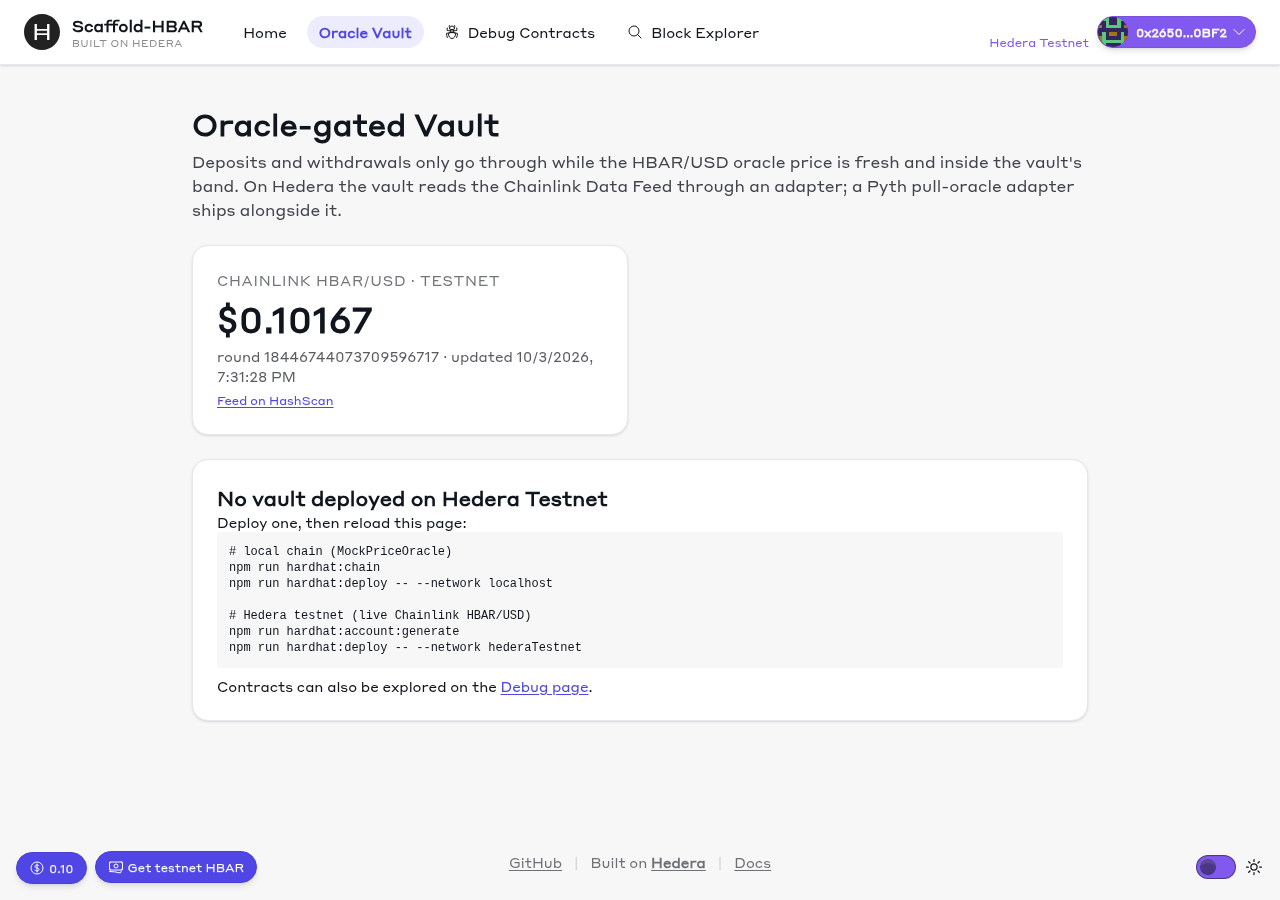
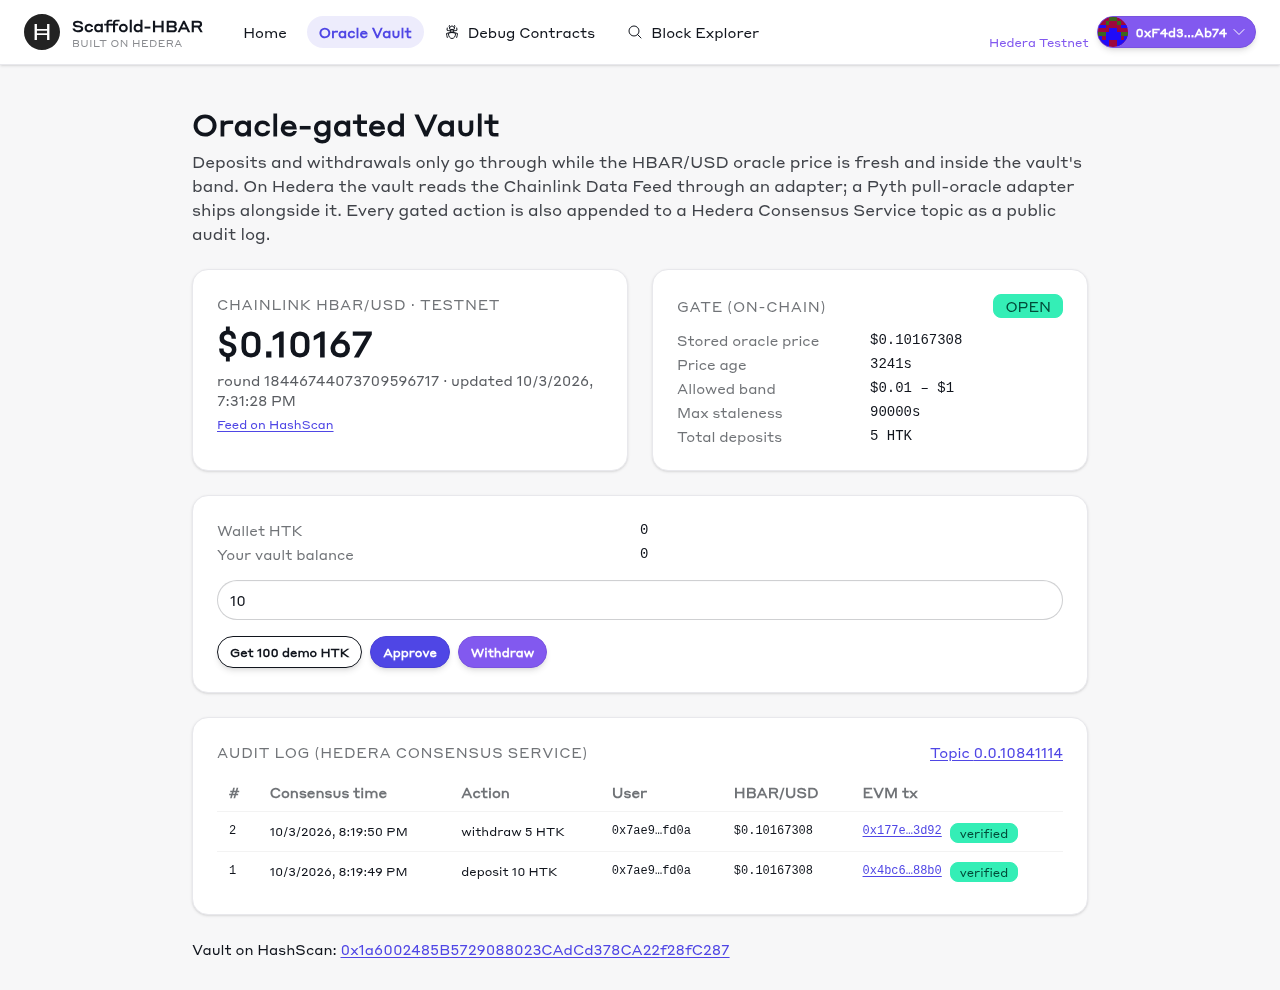
feat: Sourcify v2 verify script (contracts verified), HCS topic registry in nextjs/contracts, testnet /vault screenshot

diff --git a/packages/hardhat/scripts/verifySourcify.ts b/packages/hardhat/scripts/verifySourcify.ts
@@ -1,0 +1,69 @@
+import { artifacts, deployments, ethers } from "hardhat";
+
+/**
+ * Verifies every deployed contract of this network on Sourcify through its v2 API (HashScan reads
+ * verification status from sourcify.dev). `hardhat verify` in @nomicfoundation/hardhat-verify still
+ * calls the removed v1 endpoints, so this script talks to v2 directly.
+ *
+ *   npm run hardhat:verify:sourcify -- --network hederaTestnet
+ */
+const SOURCIFY = process.env.SOURCIFY_URL || "https://sourcify.dev/server";
+const sleep = (ms: number) => new Promise(r => setTimeout(r, ms));
+
+async function verifyOne(chainId: number, name: string) {
+  const deployment = await deployments.get(name);
+  const existing = await fetch(`${SOURCIFY}/v2/contract/${chainId}/${deployment.address}`).then(r => r.json());
+  if (existing.match) {
+    console.log(`✅ ${name} already verified (${existing.match})`);
+    return;
+  }
+
+  const artifact = await artifacts.readArtifact(name);
+  const fqn = `${artifact.sourceName}:${artifact.contractName}`;
+  const buildInfo = await artifacts.getBuildInfo(fqn);
+  if (!buildInfo) throw new Error(`No build info for ${fqn}; run hardhat compile`);
+
+  const res = await fetch(`${SOURCIFY}/v2/verify/${chainId}/${deployment.address}`, {
+    method: "POST",
+    headers: { "Content-Type": "application/json", "User-Agent": "oracle-gated-vault-template" },
+    body: JSON.stringify({
+      stdJsonInput: buildInfo.input,
+      compilerVersion: buildInfo.solcLongVersion,
+      contractIdentifier: fqn,
+      creationTransactionHash: deployment.transactionHash,
+    }),
+  });
+  const body = await res.json();
+  if (!res.ok) throw new Error(`${name}: Sourcify ${res.status} ${JSON.stringify(body)}`);
+
+  for (let i = 0; i < 30; i++) {
+    await sleep(3000);
+    const job = await fetch(`${SOURCIFY}/v2/verify/${body.verificationId}`).then(r => r.json());
+    if (!job.isJobCompleted) continue;
+    if (job.error)
+      throw new Error(`${name}: ${job.error.customCode ?? ""} ${job.error.message ?? JSON.stringify(job.error)}`);
+    console.log(`✅ ${name} verified on Sourcify (${job.contract?.match ?? "match"})`);
+    return;
+  }
+  throw new Error(`${name}: verification job ${body.verificationId} did not finish`);
+}
+
+async function main() {
+  const chainId = Number((await ethers.provider.getNetwork()).chainId);
+  const names = Object.keys(await deployments.all());
+  let failed = 0;
+  for (const name of names) {
+    try {
+      await verifyOne(chainId, name);
+    } catch (e) {
+      failed++;
+      console.error(`❌ ${(e as Error).message}`);
+    }
+  }
+  if (failed) process.exitCode = 1;
+}
+
+main().catch(error => {
+  console.error(error);
+  process.exitCode = 1;
+});

diff --git a/packages/hardhat/utils/hcsClient.ts b/packages/hardhat/utils/hcsClient.ts
@@ -93,29 +93,21 @@ export async function fetchLoggedAuditEvents(chainId: number, topicId: string): 
   return out;
 }
 
-/** Topic ids per network live next to the hardhat-deploy artifacts and are mirrored into the Next.js app. */
+/**
+ * Topic ids per chain id live in packages/nextjs/contracts/hcsAuditTopics.json (committed, read by the
+ * /vault page). Not under deployments/: hardhat-deploy would treat the file as a contract deployment.
+ */
 export type AuditTopicRecord = { topicId: string; vault: string; createdAt: string };
 
-const deploymentsFile = (networkName: string) =>
-  path.join(__dirname, "..", "deployments", networkName, "HcsAuditTopic.json");
-const NEXT_FILE = path.join(__dirname, "..", "..", "nextjs", "contracts", "hcsAuditTopics.json");
+const TOPICS_FILE = path.join(__dirname, "..", "..", "nextjs", "contracts", "hcsAuditTopics.json");
 
-/** Topic for this network: the local deployments record first, then the committed Next.js registry. */
-export function readAuditTopic(networkName: string, chainId: number): AuditTopicRecord | null {
-  const file = deploymentsFile(networkName);
-  if (fs.existsSync(file)) return JSON.parse(fs.readFileSync(file, "utf8")) as AuditTopicRecord;
-  if (!fs.existsSync(NEXT_FILE)) return null;
-  return (JSON.parse(fs.readFileSync(NEXT_FILE, "utf8")) as Record<string, AuditTopicRecord>)[String(chainId)] ?? null;
-}
+const readTopics = (): Record<string, AuditTopicRecord> =>
+  fs.existsSync(TOPICS_FILE) ? JSON.parse(fs.readFileSync(TOPICS_FILE, "utf8")) : {};
 
-export function saveAuditTopic(networkName: string, chainId: number, record: AuditTopicRecord) {
-  const file = deploymentsFile(networkName);
-  fs.mkdirSync(path.dirname(file), { recursive: true });
-  fs.writeFileSync(file, JSON.stringify(record, null, 2) + "\n");
+export const readAuditTopic = (chainId: number): AuditTopicRecord | null => readTopics()[String(chainId)] ?? null;
 
-  const current: Record<string, AuditTopicRecord> = fs.existsSync(NEXT_FILE)
-    ? JSON.parse(fs.readFileSync(NEXT_FILE, "utf8"))
-    : {};
-  current[String(chainId)] = record;
-  fs.writeFileSync(NEXT_FILE, JSON.stringify(current, null, 2) + "\n");
+export function saveAuditTopic(chainId: number, record: AuditTopicRecord) {
+  const topics = readTopics();
+  topics[String(chainId)] = record;
+  fs.writeFileSync(TOPICS_FILE, JSON.stringify(topics, null, 2) + "\n");
 }

diff --git a/packages/hardhat/deploy/02_create_hcs_audit_topic.ts b/packages/hardhat/deploy/02_create_hcs_audit_topic.ts
@@ -10,8 +10,7 @@ import { createAuditTopic, hashscanTopicUrl, operatorClient, readAuditTopic, sav
  * - Hedera networks only (HCS has no local-chain equivalent; set HCS_AUDIT=false to skip).
  * - Submit key = the deployer key, no admin key: only the relayer can append, nobody can delete.
  * - One topic per vault deployment; reruns are no-ops while the vault address is unchanged.
- * - The topic id is saved to deployments/<network>/HcsAuditTopic.json and
- *   packages/nextjs/contracts/hcsAuditTopics.json (read by the /vault page).
+ * - The topic id is saved to packages/nextjs/contracts/hcsAuditTopics.json (read by the /vault page).
  *
  * Messages are appended by `npm run hardhat:e2e:testnet` and `npm run hardhat:hcs:relay`.
  */
@@ -23,7 +22,7 @@ const createHcsAuditTopic: DeployFunction = async function (hre: HardhatRuntimeE
   }
 
   const vault = (await hre.deployments.get("OracleGatedVault")).address.toLowerCase();
-  const existing = readAuditTopic(hre.network.name, chainId);
+  const existing = readAuditTopic(chainId);
   if (existing && existing.vault.toLowerCase() === vault) {
     console.log(`HCS audit topic: reusing ${existing.topicId} (${hashscanTopicUrl(chainId, existing.topicId)})`);
     return;
@@ -33,7 +32,7 @@ const createHcsAuditTopic: DeployFunction = async function (hre: HardhatRuntimeE
   const { client, key } = await operatorClient(chainId, deployer);
   try {
     const topicId = await createAuditTopic(client, key, `Oracle-gated Vault audit log ${vault}`);
-    saveAuditTopic(hre.network.name, chainId, { topicId, vault, createdAt: new Date().toISOString() });
+    saveAuditTopic(chainId, { topicId, vault, createdAt: new Date().toISOString() });
     console.log(`HCS audit topic created: ${topicId}`);
     console.log(`  ${hashscanTopicUrl(chainId, topicId)}`);
   } finally {

diff --git a/packages/hardhat/scripts/hcsAuditRelay.ts b/packages/hardhat/scripts/hcsAuditRelay.ts
@@ -1,4 +1,4 @@
-import { deployments, ethers, network } from "hardhat";
+import { deployments, ethers } from "hardhat";
 
 import { hashscanTopicUrl, readAuditTopic } from "../utils/hcsClient";
 import { relayToTopic } from "../utils/hcsRelay";
@@ -13,8 +13,8 @@ async function main() {
   const chainId = Number((await ethers.provider.getNetwork()).chainId);
   const [signer] = await ethers.getSigners();
   const vault = (await deployments.get("OracleGatedVault")).address;
-  const topic = readAuditTopic(network.name, chainId);
-  if (!topic) throw new Error(`No HCS audit topic for ${network.name}; run the deploy first.`);
+  const topic = readAuditTopic(chainId);
+  if (!topic) throw new Error(`No HCS audit topic for chain ${chainId}; run the deploy first.`);
 
   const relayed = await relayToTopic({ chainId, topicId: topic.topicId, operatorEvm: signer.address, vault });
   for (const { event, sequenceNumber } of relayed) {

diff --git a/packages/hardhat/scripts/e2eTestnet.ts b/packages/hardhat/scripts/e2eTestnet.ts
@@ -76,7 +76,7 @@ async function main() {
 
   console.log(`Vault balance of signer: ${ethers.formatEther(await vault.balances(signer.address))} HTK`);
 
-  const topic = readAuditTopic(network.name, chainId);
+  const topic = readAuditTopic(chainId);
   if (!topic || topic.vault.toLowerCase() !== vaultAddress.toLowerCase()) {
     console.log("HCS audit topic not found for this vault (deploy with HCS_AUDIT unset to create one); skipping.");
     return;

diff --git a/packages/nextjs/contracts/deployedContracts.ts b/packages/nextjs/contracts/deployedContracts.ts
@@ -111,9 +111,6 @@ const deployedContracts = {
       },
       deployedOnBlock: 41302251,
     },
-    HcsAuditTopic: {
-      inheritedFunctions: {},
-    },
     HederaToken: {
       address: "0xb199E4193E60Eb98C74cb2048Ec91C67F2B070e2",
       abi: [

diff --git a/README.md b/README.md
@@ -143,9 +143,9 @@ The vault only knows `IPriceOracle`, so swapping feeds is a new adapter plus `se
    npm run hardhat:e2e:testnet
    npm run hardhat:hcs:relay        # optional: backfill any vault event not yet on the topic
    ```
-5. **Verify source** on Sourcify (HashScan shows the verified badge):
+5. **Verify source** on Sourcify (HashScan shows the verified badge). No API key, no constructor args: the script reads the deployments and build info.
    ```bash
-   npm run hardhat:verify -- --network hederaTestnet <vault-address> <constructor args…>
+   npm run hardhat:verify:sourcify -- --network hederaTestnet
    ```
 
 Mainnet works the same with `--network hederaMainnet`; the mainnet Chainlink feed address is already in `config/oracle.ts`.
@@ -153,7 +153,7 @@ Mainnet works the same with `--network hederaMainnet`; the mainnet Chainlink fee
 ## Deployed on testnet
 
 <!-- TESTNET_PROOF:START -->
-Deployed 2026-10-03 11:20 UTC on Hedera testnet (chain 296). Oracle: Chainlink HBAR/USD `0x59bC155EB6c6C415fE43255aF66EcF0523c92B4a`.
+Deployed 2026-10-03 11:20 UTC on Hedera testnet (chain 296). Oracle: Chainlink HBAR/USD `0x59bC155EB6c6C415fE43255aF66EcF0523c92B4a`. All three contracts are **verified on Sourcify (exact match)**, so HashScan shows their source.
 
 | Contract | Address | Deploy |
 |---|---|---|
@@ -216,7 +216,7 @@ HCS audit topic [`0.0.10841114`](https://hashscan.io/testnet/topic/0.0.10841114)
 | `npm run hardhat:e2e:testnet` | Live faucet → approve → gated deposit → gated withdraw → HCS audit messages, prints HashScan links |
 | `npm run hardhat:hcs:relay` | Append every vault event missing from the HCS audit topic (idempotent) |
 | `npm run hardhat:account[:generate\|:import]` | Manage the encrypted deployer key |
-| `npm run hardhat:verify -- --network hederaTestnet <address> <args>` | Sourcify verification |
+| `npm run hardhat:verify:sourcify -- --network hederaTestnet` | Verify every deployed contract on Sourcify (v2 API) |
 | `npm run next:dev` / `next:build` / `next:serve` | Frontend |
 | `npm run lint` / `npm run format` / `npm run next:check-types` | Quality gates |
 
@@ -241,6 +241,7 @@ packages/
     deploy/02_create_hcs_audit_topic.ts     HCS topic (Hedera networks only)
     scripts/e2eTestnet.ts             live end-to-end run
     scripts/hcsAuditRelay.ts          idempotent HCS backfill
+    scripts/verifySourcify.ts         Sourcify v2 verification
     scripts/runHardhatWithPK.ts       decrypts the deployer key for deploy/run
     utils/hcsAudit.ts                 HCS message schema + relay logic (no network)
     utils/hcsClient.ts, hcsRelay.ts   Hedera SDK + mirror node side
@@ -287,6 +288,7 @@ Errors: `PriceOutOfBand(price, min, max)`, `StalePrice(updatedAt, maxStaleness)`
 - **Gas limit is charged.** Hedera charges at least 80% of the gas limit, so deploy, e2e and UI calls set explicit, measured limits instead of padded defaults.
 - **Hollow accounts.** Funding a fresh EVM address from the faucet creates a hollow account (no key yet); the first EVM transaction signed by that key (the deploy) completes it. The HCS step runs after the contracts for this reason, and resolves the `0.0.x` account id from the EVM address via the mirror node.
 - **One key, two APIs.** The same ECDSA key signs EVM transactions (relay) and native HCS transactions (`@hashgraph/sdk`, `PrivateKey.fromStringECDSA`). HCS messages are capped at 1024 bytes per chunk, so audit entries are compact single-chunk JSON.
+- **Sourcify v2.** Sourcify removed its v1 API, which `hardhat verify` (hardhat-verify) still calls (`API v1 is removed`). `scripts/verifySourcify.ts` uses `POST /v2/verify/{chainId}/{address}` with the Hardhat build info and the creation tx hash.
 - **Unit tests do not depend on the relay.** The Hardhat network forks Hedera only when `HEDERA_FORKING=true` (`hardhat:chain`), so `hardhat:test` is deterministic and offline. Feeds are exercised with `MockAggregatorV3` and Pyth's own `MockPyth`.
 
 ## Make it yours
@@ -323,6 +325,7 @@ npm run hardhat:test
 | `PriceOutOfBand` | HBAR/USD is outside the band; check `/vault` and adjust with `setBand` |
 | `ConfidenceTooWide` | Pyth path: confidence exceeds `maxConfidenceBps`; wait or redeploy the adapter with a wider limit |
 | `npm run hardhat:deploy --network hederaTestnet` deploys to the wrong network | npm swallows flags before `--`; use `npm run hardhat:deploy -- --network hederaTestnet` |
+| `hardhat verify` fails with `API v1 is removed` | Use `npm run hardhat:verify:sourcify -- --network hederaTestnet` |
 | Deploy fails with `INSUFFICIENT_PAYER_BALANCE` | Fund the deployer address from the faucet; `npm run hardhat:account` shows the balance |
 | `/vault` audit log says "No Hedera Consensus Service topic" | Deploy to a Hedera network (creates the topic), or check `HCS_AUDIT` was not `false`; the topic must belong to the current vault address |
 | `Mirror node: no Hedera account for 0x…` during deploy | The deployer address was never funded; fund it from the faucet |

diff --git a/AGENTS.md b/AGENTS.md
@@ -37,6 +37,7 @@ npm run hardhat:deploy -- --network hederaTestnet     # ChainlinkPriceOracle on 
 ORACLE_PROVIDER=pyth PYTH_API_KEY=... npm run hardhat:deploy -- --network hederaTestnet   # Pyth instead
 npm run hardhat:e2e:testnet                           # live faucet/approve/deposit/withdraw + HCS audit, prints HashScan links
 npm run hardhat:hcs:relay                             # backfill vault events missing from the HCS topic (idempotent)
+npm run hardhat:verify:sourcify -- --network hederaTestnet   # Sourcify v2 (hardhat verify still uses the removed v1 API)
 ```
 
 Validate any contract change with `hardhat:test`; any frontend change with `next:check-types`, `next:lint` and `next:build`.
